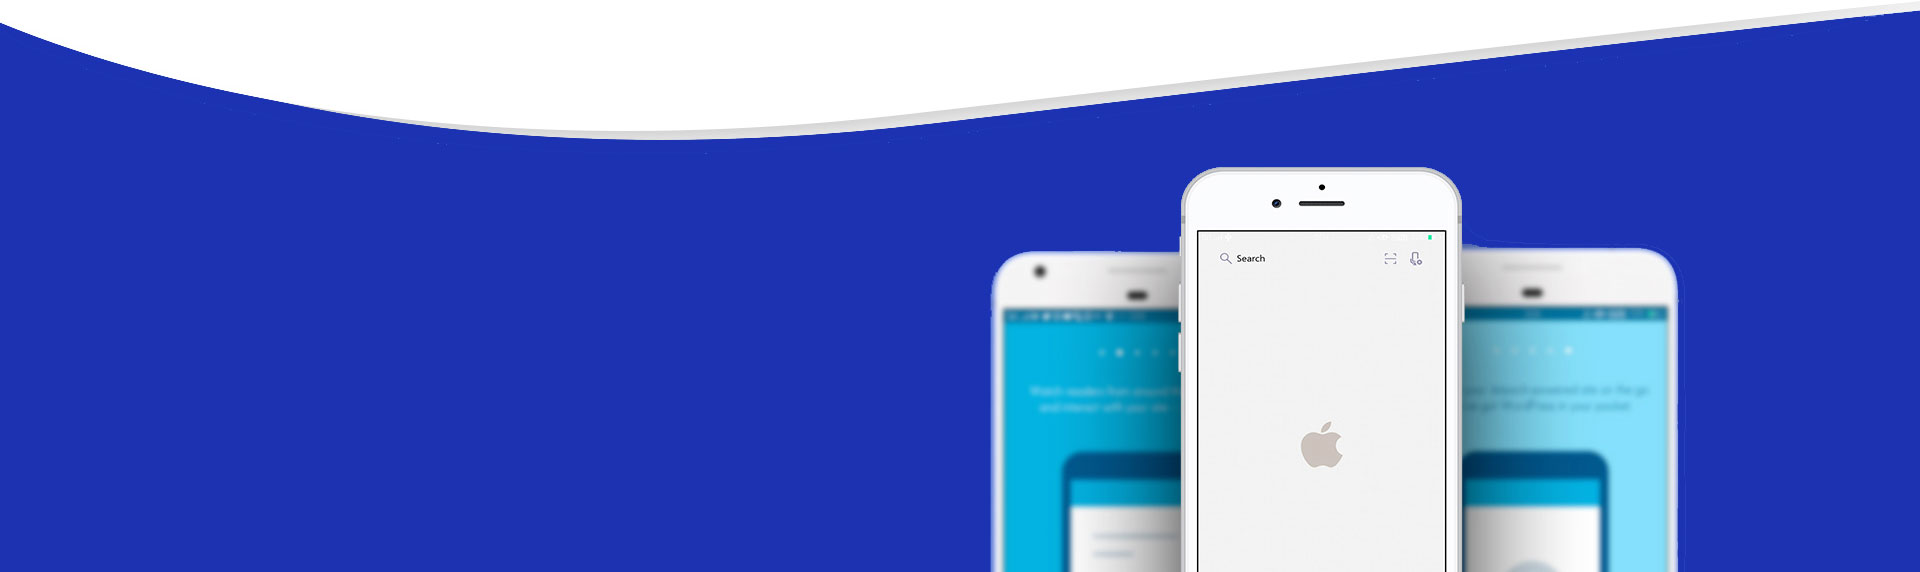
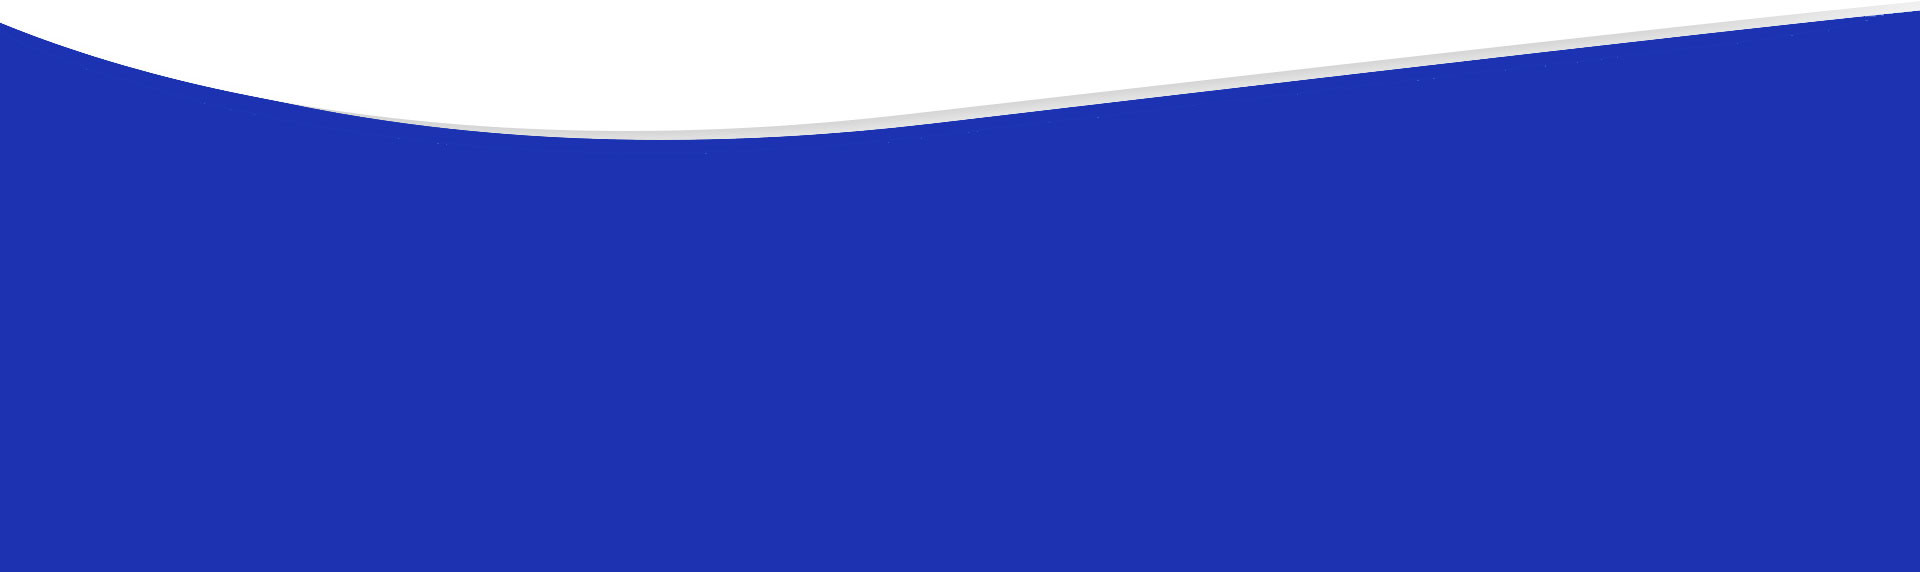
Changed Images

Changed region(s): [[0.5, 0.2675, 0.875, 1.0]]

diff --git a/index.html b/index.html
@@ -86,7 +86,7 @@
 			<p class="animated fadeIn wow" data-wow-delay="0.67s">Lorem ipsum dolor sit amet, consectetur adipisicing elit. Et voluptates, aliquid soluta distinctio dolorum tenetur. </p>
 			<button class="btn btn-md download-btn-first wow fadeInLeft animated" data-wow-delay="0.85s" onclick="$('#fh5co-download').goTo();return false;">Download</button>
 			<button class="btn btn-md features-btn-first animated fadeInLeft wow" data-wow-delay="0.95s" onclick="$('#fh5co-features').goTo();return false;">Features</button>
-			<img class="fh5co-hero-smartphone animated fadeInRight wow" data-wow-delay="1s" src="img/phone-image.png" alt="Smartphone">
+			<img class="fh5co-hero-smartphone animated fadeInRight wow" data-wow-delay="1s" src="img/">
 		</div>
 
 
@@ -139,10 +139,14 @@
 
 			<div class="owl-carousel owl-theme">
 
-				<div class="item"><img src="img/smartphone-2.png" alt=""></div>
-				<div class="item"><img src="img/smartphone-2.png" alt=""></div>
-				<div class="item"><img src="img/iphone.png" alt=""></div>
-				<div class="item"><img src="img/smartphone-2.png" alt=""></div>
+				<div class="item"></div>
+				<div class="item"></div>
+				<div class="item"></div>
+				<div class="item"></div>
+                <div class="item"></div>
+				<div class="item"></div>
+				<div class="item"></div>
+				<div class="item"></div>
 
 
 			</div>
@@ -163,7 +167,7 @@
 
 				<div class="col-sm-6 in-order-1 wow animated fadeInLeft" data-wow-delay="0.22s">
 					<div class="col-sm-image-container">
-						<img class="img-float-left" src="img/smartphone-1.png" alt="smartphone-1">
+						<img class="img-float-left" src="img/">
 						<span class="span-new">NEW</span>
 						<span class="span-free">Free</span>
 					</div>
@@ -186,12 +190,12 @@
 				</div>
 
 				<div class="col-sm-6 in-order-4 wow animated fadeInRight" data-wow-delay="0.22s">
-					<img class="img-float-right" src="img/smartphone-2.png" alt="smartphone-2">
+					<img class="img-float-right" src="img/">
 				</div>
 
 				<div class="col-sm-6 in-order-5 wow animated fadeInLeft" data-wow-delay="0.22s">
 					<div class="col-sm-image-container">
-						<img class="img-float-left" src="img/smartphone-2.png" alt="smartphone-3">
+						<img class="img-float-left" src="img/">
 						<span class="span-data">DATA</span>
 						<span class="span-percent">100%</span>
 					</div>
